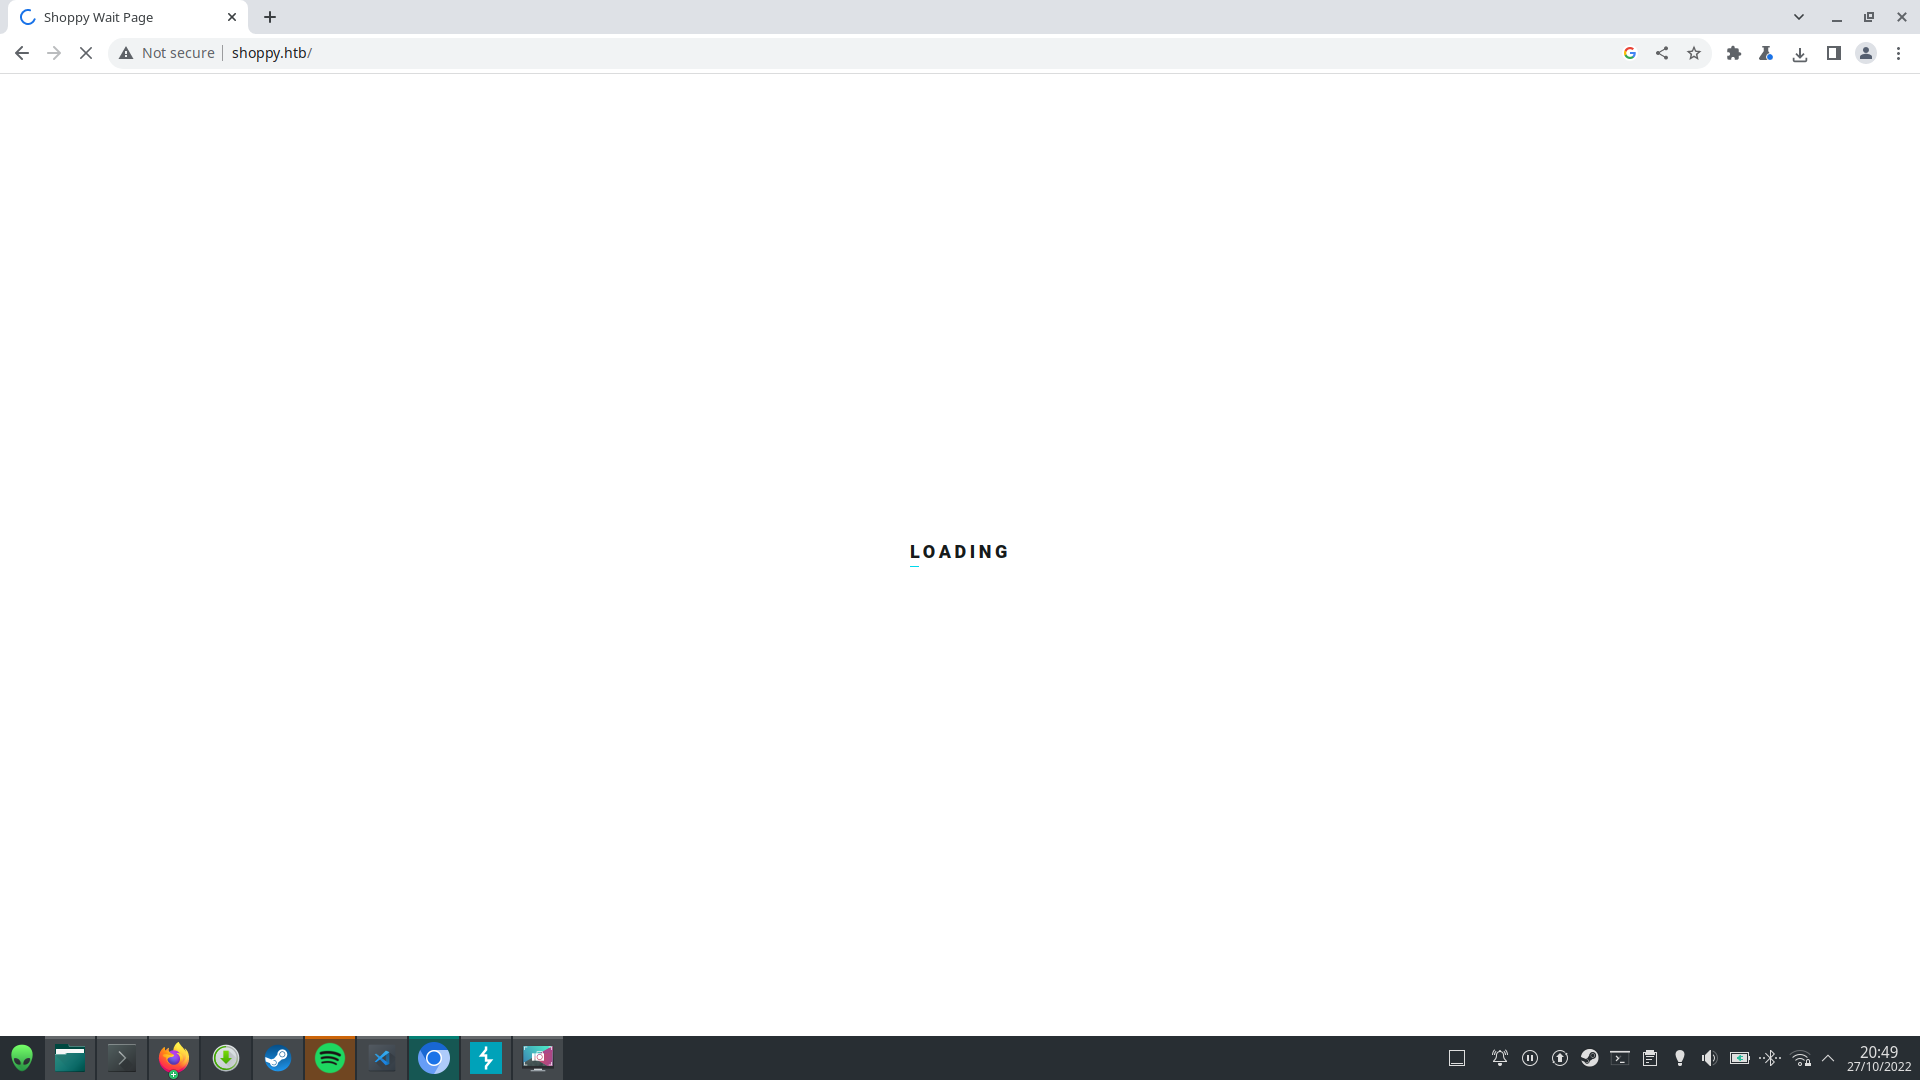
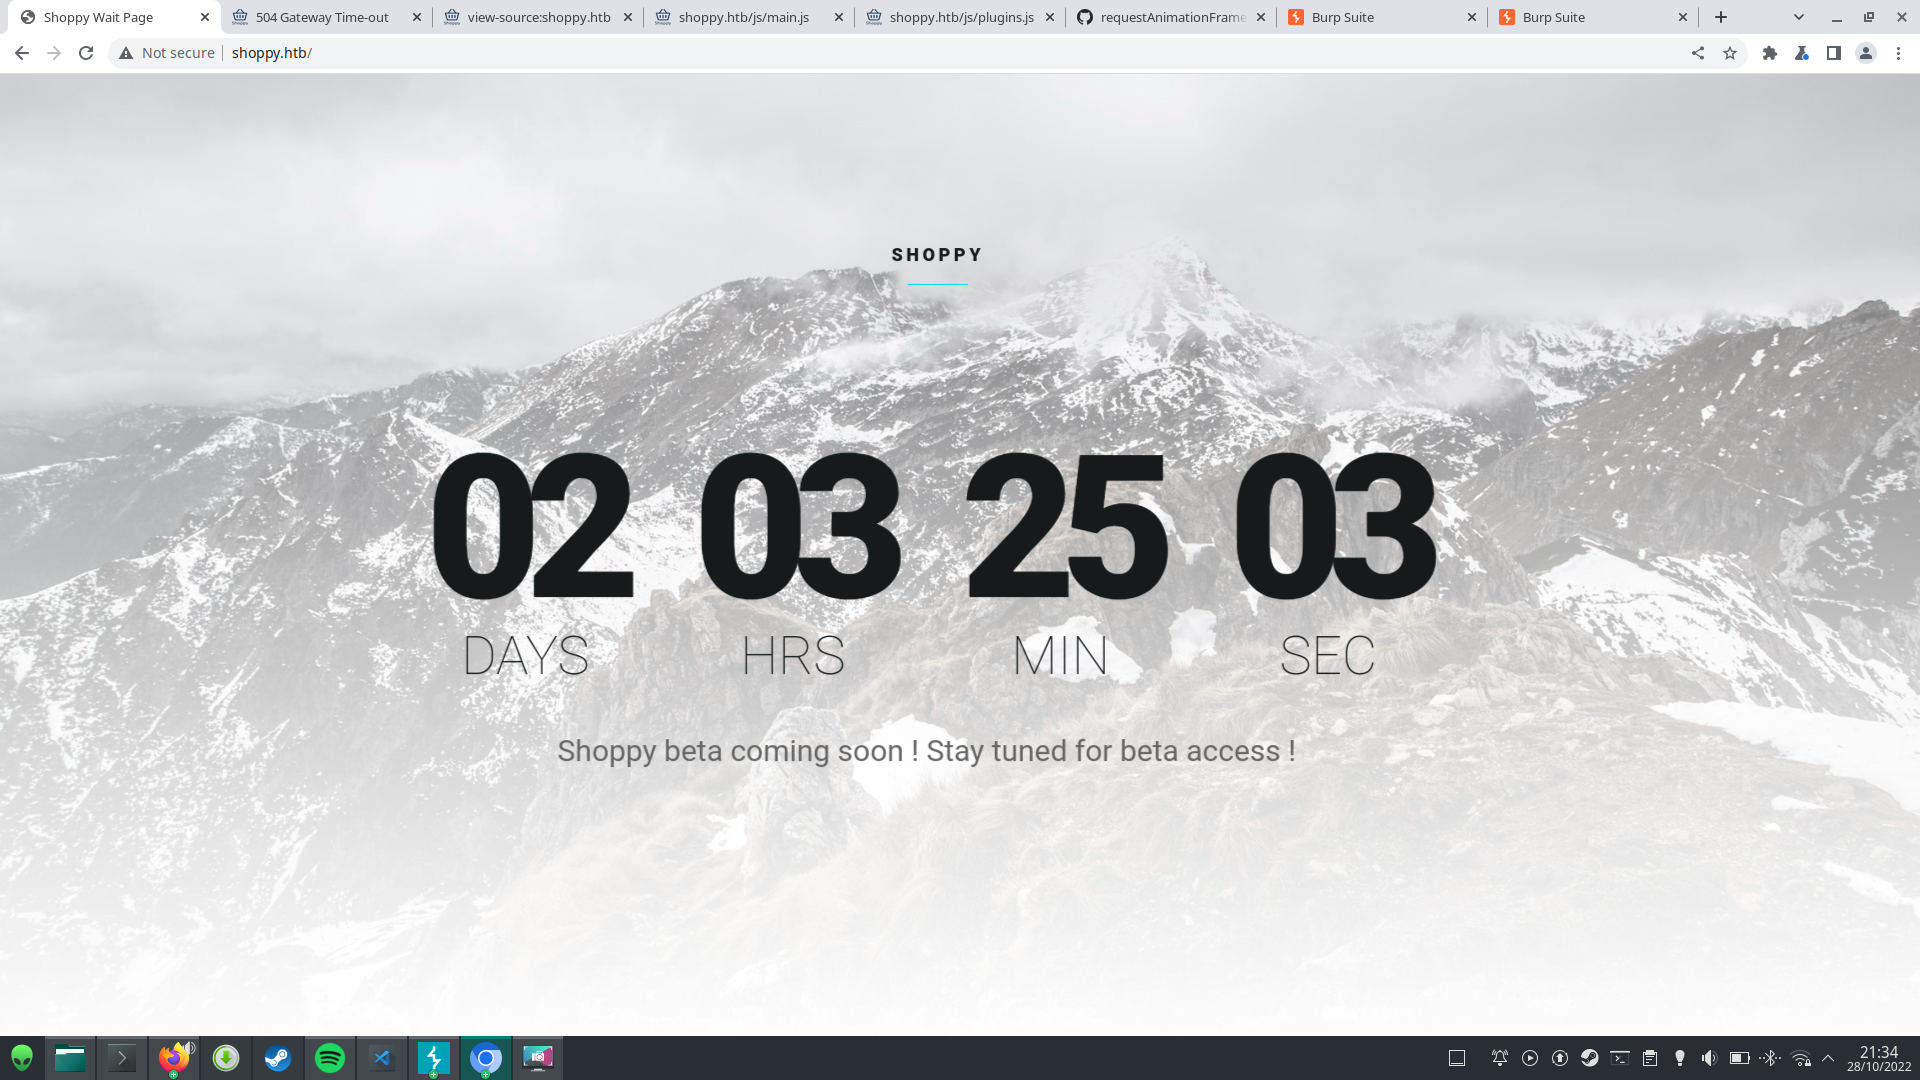
shoppy_enum

diff --git a/HackTheBox/Shoppy/README.md b/HackTheBox/Shoppy/README.md
@@ -23,3 +23,50 @@ Service Info: OS: Linux; CPE: cpe:/o:linux:linux_kernel
 pop shoppy.htb into host file and away we go using burp to the website, where we're met by a waiting page followed by a redirect to the main page:
 ![Picture of wait page](https://github.com/e-war/Writeups/blob/master/HackTheBox/Shoppy/Screenshots/1Shoppy_Wait.png)
 ![Picture of main page](https://github.com/e-war/Writeups/blob/master/HackTheBox/Shoppy/Screenshots/2Shoppy_main.png)
+Ok, a boring countdown, are there any interesting scripts? 
+```
+<script src="js/jquery.js"></script>
+<script src="js/plugins.js"></script>
+<script src="js/jquery.countdown.min.js"></script>
+<script src="js/main.js"></script>
+
+```
+Nothing really stands out when viewing these however so next bit of info gathering is testing out if there are some hidden directories we can search for, typically i use gobuster for this
+
+```
+Gobuster v3.1.0
+by OJ Reeves (@TheColonial) & Christian Mehlmauer (@firefart)
+===============================================================
+[+] Url:                     http://shoppy.htb
+[+] Method:                  GET
+[+] Threads:                 10
+[+] Wordlist:                /home/elliot/Programs/Security/SecLists/Discovery/Web-Content/raft-medium-words.txt
+[+] Negative Status codes:   404
+[+] Exclude Length:          169
+[+] User Agent:              gobuster/3.1.0
+[+] Timeout:                 10s
+===============================================================
+2022/10/28 20:10:50 Starting gobuster in directory enumeration mode
+===============================================================
+/admin                (Status: 302) [Size: 28] [--> /login]
+/images               (Status: 301) [Size: 179] [--> /images/]
+/login                (Status: 200) [Size: 1074]              
+/js                   (Status: 301) [Size: 171] [--> /js/]    
+/css                  (Status: 301) [Size: 173] [--> /css/]   
+/assets               (Status: 301) [Size: 179] [--> /assets/]
+/Admin                (Status: 302) [Size: 28] [--> /login]   
+/Login                (Status: 200) [Size: 1074]              
+/fonts                (Status: 301) [Size: 177] [--> /fonts/] 
+/ADMIN                (Status: 302) [Size: 28] [--> /login]   
+/exports              (Status: 301) [Size: 181] [--> /exports/]
+/LogIn                (Status: 200) [Size: 1074]               
+/LOGIN                (Status: 200) [Size: 1074]               
+                                                               
+===============================================================
+2022/10/28 20:14:13 Finished
+===============================================================
+```
+Well would you look at that, an /admin which redirects to the /login page and an /exports page too, although this only redirects to a path which cant be fetched..
+Lets take a look at that admin page anyway
+![Picture of admin login page](https://github.com/e-war/Writeups/blob/master/HackTheBox/Shoppy/Screenshots/3Shoppy_admin.png)
+admin:admin is probably too good to hope for, but looks like if we put a quote mark in the page it times out! So we may be able to break out of some sort of database query!
